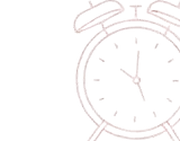
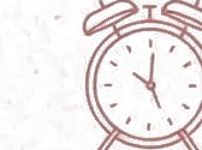
traje: icones da cartilha com traco mais escuro

diff --git a/css/dia.css b/css/dia.css
@@ -365,17 +365,18 @@
 }
 
 .papel {
-  display: grid;
-  grid-template-columns: auto minmax(0, 1fr);
+  display: flex;
   align-items: center;
-  gap: clamp(12px, 1.8vw, 18px);
+  gap: clamp(14px, 2vw, 20px);
   text-align: left;
 }
 
 .papel__arte {
-  width: clamp(58px, 7vw, 78px);
+  width: clamp(56px, 10vw, 76px);
   height: auto;
   display: block;
+  flex-shrink: 0;
+  object-fit: contain;
 }
 
 .papel__texto {
@@ -398,7 +399,7 @@
 
   .traje__papeis { gap: clamp(12px, 3vw, 18px) clamp(10px, 3vw, 16px); }
 
-  .papel__arte { width: clamp(46px, 12vw, 62px); }
+  .papel__arte { width: clamp(90px, 22vw, 120px); }
 
   .papel__texto { font-size: .7rem; }
 }

diff --git a/index.html b/index.html
@@ -28,7 +28,7 @@
 <link rel="stylesheet" href="css/hero.css?v=20261119c">
 <link rel="stylesheet" href="css/contagem.css?v=20261119c">
 <link rel="stylesheet" href="css/historia.css?v=20261119c">
-<link rel="stylesheet" href="css/dia.css?v=20261119c">
+<link rel="stylesheet" href="css/dia.css?v=20261120a">
 <link rel="stylesheet" href="css/presentes.css?v=20261119c">
 <link rel="stylesheet" href="css/formulario.css?v=20261119c">
 <link rel="stylesheet" href="css/interface.css?v=20261119c">

diff --git a/extrair_icones_v2.py b/extrair_icones_v2.py
@@ -1,0 +1,80 @@
+from PIL import Image
+import numpy as np
+import os
+
+# Caminhos
+origem = 'assets/_origem/cartilha.webp'
+destino = 'assets/arte/cartilha'
+os.makedirs(destino, exist_ok=True)
+
+im = Image.open(origem).convert('RGB')
+w, h = im.size
+
+# Coordenadas das faixas (topo, base) - ajustadas para pegar apenas os ícones
+faixas = [(333, 437), (499, 596), (650, 775), (854, 976), (1037, 1165)]
+
+# Mapeamento dos nomes dos arquivos
+mapa = [
+ ('presenca', 'silencio'),
+ ('convite', 'fotografos'),
+ ('pontual', 'bebida'),
+ ('rosa', 'flash'),
+ ('branco', 'abraco')
+]
+
+# Coordenadas X para Esquerda e Direita
+xs = {
+ 'E': (int(w * 0.005), int(w * 0.20)),
+ 'D': (int(w * 0.515), int(w * 0.715))
+}
+
+print(f'Imagem original: {w}x{h}')
+print('Processando ícones com contraste MÁXIMO...')
+
+for i, (topo, base) in enumerate(faixas):
+ for lado, nome in (('E', mapa[i][0]), ('D', mapa[i][1])):
+ x0, x1 = xs[lado]
+
+ # Ajuste especial para o último ícone da direita (abraço) que pode ser mais largo
+ if nome == 'abraco':
+ x1 = int(w * 0.667)
+
+ rec = im.crop((x0, topo, x1, base)).convert('RGBA')
+ arr = np.array(rec).astype(np.float32)
+
+ # Calcular luminosidade média dos canais RGB
+ lum = arr[:, :, :3].mean(axis=2)
+
+ # Criar alpha baseado na diferença com o fundo claro (~238)
+ # Quanto mais escuro o pixel original, mais opaco ele fica
+ # Multiplicador alto para garantir que apenas os traços fiquem visíveis
+ alfa = np.clip((240 - lum) * 10.0, 0, 255)
+
+ # Escurecer drasticamente os pixels para ficar quase preto/marrom escuro (#2A1A15)
+ # Subtrair um valor base alto e multiplicar para aumentar o contraste
+ rgb = arr[:, :, :3]
+ rgb = (rgb - 50) * 5.0 + 20
+ arr[:, :, :3] = np.clip(rgb, 0, 255)
+ arr[:, :, 3] = alfa
+
+ out = Image.fromarray(arr.astype(np.uint8), 'RGBA')
+
+ # Recortar transparências
+ bb = out.getbbox()
+ if bb:
+ out = out.crop(bb)
+
+ # Redimensionar para altura fixa de 150px mantendo proporção
+ if out.height > 0 and out.width > 0:
+ esc = 150 / out.height
+ novo_w = max(1, round(out.width * esc))
+ novo = out.resize((novo_w, 150), Image.LANCZOS)
+
+ # Salvar em PNG e WebP
+ novo.save(f'{destino}/{nome}.png')
+ novo.save(f'{destino}/{nome}.webp', quality=95)
+ print(f' OK: {nome} ({novo_w}x150)')
+ else:
+ print(f' ERRO: {nome} - bbox vazio')
+
+print('Concluído! Ícones salvos em assets/arte/cartilha/')

diff --git a/extrair_icones.py b/extrair_icones.py
@@ -1,0 +1,67 @@
+from PIL import Image
+import numpy as np
+import os
+
+origem = 'assets/_origem/cartilha.webp'
+destino = 'assets/arte/cartilha'
+os.makedirs(destino, exist_ok=True)
+
+im = Image.open(origem).convert('RGB')
+w, h = im.size
+
+faixas = [(333, 437), (499, 596), (650, 775), (854, 976), (1037, 1165)]
+mapa = [
+    ('presenca', 'silencio'),
+    ('convite', 'fotografos'),
+    ('pontual', 'bebida'),
+    ('rosa', 'flash'),
+    ('branco', 'abraco')
+]
+
+xs = {
+    'E': (int(w * 0.005), int(w * 0.20)),
+    'D': (int(w * 0.515), int(w * 0.715))
+}
+
+print(f'Imagem: {w}x{h}')
+print('Processando icones com contraste maximo...')
+
+for i, (topo, base) in enumerate(faixas):
+    for lado, nome in (('E', mapa[i][0]), ('D', mapa[i][1])):
+        x0, x1 = xs[lado]
+        if nome == 'abraco':
+            x1 = int(w * 0.667)
+
+        rec = im.crop((x0, topo, x1, base)).convert('RGBA')
+        arr = np.array(rec).astype(np.float32)
+
+        lum = arr[:, :, :3].mean(axis=2)
+
+        # fundo creme (~238) vira transparente; qualquer traço fica opaco
+        alfa = np.clip((242 - lum) * 10.0, 0, 255)
+
+        # escurece o traço mantendo o matiz: puxa a luminosidade para baixo
+        rgb = arr[:, :, :3] / 255.0
+        rgb = np.power(rgb, 1.55)          # escurece os meios-tons
+        rgb = rgb * 0.86                    # derruba o brilho geral
+        arr[:, :, :3] = np.clip(rgb * 255, 0, 255)
+        arr[:, :, 3] = alfa
+
+        out = Image.fromarray(arr.astype(np.uint8), 'RGBA')
+
+        bb = out.getbbox()
+        if bb:
+            out = out.crop(bb)
+
+        if out.height > 0 and out.width > 0:
+            esc = 150 / out.height
+            novo_w = max(1, round(out.width * esc))
+            novo = out.resize((novo_w, 150), Image.LANCZOS)
+
+            novo.save(f'{destino}/{nome}.png')
+            novo.save(f'{destino}/{nome}.webp', quality=95)
+            print(f'  OK: {nome} ({novo_w}x150)')
+        else:
+            print(f'  ERRO: {nome} - bbox vazio')
+
+print('Concluido!')
